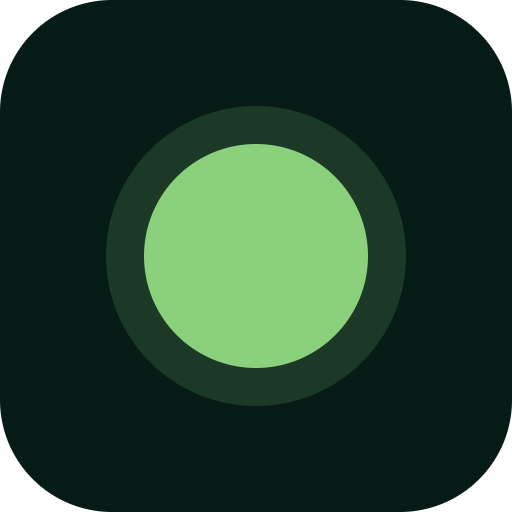
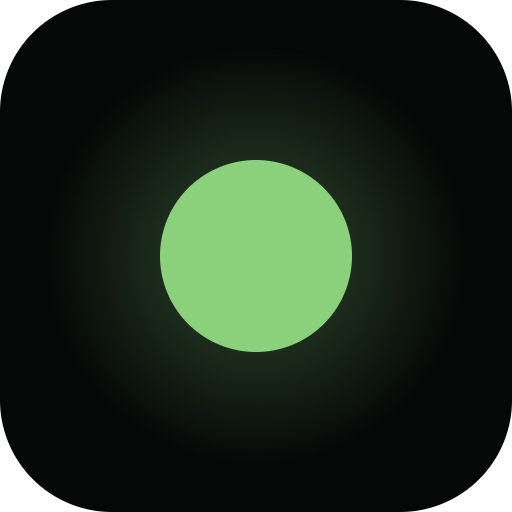
Redesign, etapa 10: PWA, auditoria e testes
- manifest e theme-color em #050807; ícones com fundo #050807 e o ponto
  verde com brilho; imagem de compartilhamento no visual novo
- service worker v4 com a lista nova de arquivos (Geist, predio.js,
  predio3d.js, Three.js); fora Nunito e MotionPath
- Alvos de toque de 44 px nos links curtos e na chave do painel
- Auditoria mede o telão no tamanho do palco; nenhum apontamento
- 33 testes passando

Claude-Session: https://claude.ai/code/session_017Uo4h7p6QncwdAJRiagarF

Changed region(s): [[0.1875, 0.1875, 0.8125, 0.8125]]

diff --git a/css/demo.css b/css/demo.css
@@ -361,27 +361,31 @@
 
 /* Chave: trilho em --trilho, bolinha --texto; ligada, trilho verde */
 .d-chave {
+  /* o botão tem 44 px de altura; o trilho desenhado tem 32 */
   position: relative;
+  isolation: isolate;
   flex: none;
   width: 52px;
-  height: 32px;
+  height: 44px;
+  border-radius: var(--r-pilula);
+}
+
+.d-chave::after {
+  content: '';
+  position: absolute;
+  inset: 6px 0;
+  z-index: -2;
   border-radius: var(--r-pilula);
   background: var(--trilho);
   box-shadow: inset 0 0 0 1px rgba(255, 255, 255, 0.12);
 }
 
-.d-chave::after {
-  /* área de toque maior que a chave desenhada */
-  content: '';
-  position: absolute;
-  inset: -8px -4px;
-}
-
 .d-chave::before {
   content: '';
   position: absolute;
-  inset: 0;
-  border-radius: inherit;
+  inset: 6px 0;
+  z-index: -1;
+  border-radius: var(--r-pilula);
   background: var(--verde);
   opacity: 0;
   transition: opacity var(--t-ui) var(--ease-saida);
@@ -389,7 +393,7 @@
 
 .d-chave__bola {
   position: absolute;
-  top: 3px;
+  top: 9px;
   left: 3px;
   width: 26px;
   height: 26px;

diff --git a/404.html b/404.html
@@ -86,6 +86,8 @@
       .p404__links a {
         display: inline-flex;
         align-items: center;
+        justify-content: center;
+        min-width: 44px;
         min-height: 44px;
         color: var(--texto-2);
         font-size: 15px;

diff --git a/sw.js b/sw.js
@@ -7,7 +7,7 @@
  *
  * Ao publicar uma versão nova, mude VERSAO. As telas avisam "Nova versão disponível".
  */
-const VERSAO = 'recicla-v3';
+const VERSAO = 'recicla-v4';
 const ESPERA_REDE = 2500;
 
 const ARQUIVOS = [

diff --git a/css/site.css b/css/site.css
@@ -948,6 +948,8 @@
 .rodape__links a {
   display: inline-flex;
   align-items: center;
+  justify-content: center;
+  min-width: 44px;
   min-height: 44px;
   color: var(--texto-2);
   font-size: 14px;

diff --git a/DIARIO.md b/DIARIO.md
@@ -46,3 +46,4 @@ Uma linha por tarefa concluída, com data e hora (horário de Brasília).
 | 16/11 10:10 | Redesign etapa 7: painel com a pele nova (blocos por andar separados por linha fina, botões de vidro de 56 px com ponto colorido, chave com trilho verde quando ligada, zerar em vermelho de erro) e 404 com o prédio apagado e "Esse andar não existe." 31 testes. |
 | 16/11 10:17 | Redesign etapa 8: prédio em 3D (`js/predio3d.js`, Three.js 0.180 local): câmera isométrica igual ao SVG, andares translúcidos com emissão fraca por pontos, andar aceso, tubos de vidro com filete de luz, ponto de luz descendo a cada descarte, balanço de 10° em 16 s, arrastar para girar no app e no site, rótulos HTML; quedas para o SVG sem WebGL, com reduzir movimento, no modo estável ou abaixo de 30 quadros/s. 33 testes. |
 | 16/11 10:18 | Redesign etapa 9 (bônus): refração com filtro SVG testada na barra e nas folhas do app; no Chrome ela anula o desfoque e o texto de trás aparece nítido pela folha. Desligada e removida; fica o vidro base. Captura em docs/redesign/refracao-testada.png. |
+| 16/11 10:21 | Redesign etapa 10: manifest e theme-color em #050807, ícones e imagem de compartilhamento refeitos no visual novo, service worker v4 com Geist, prédio SVG e 3D e Three.js (sem Nunito, MotionPath, referencia/ nem prompt.md), alvos de toque de 44 px, auditoria sem nenhum apontamento e 33 testes. |
